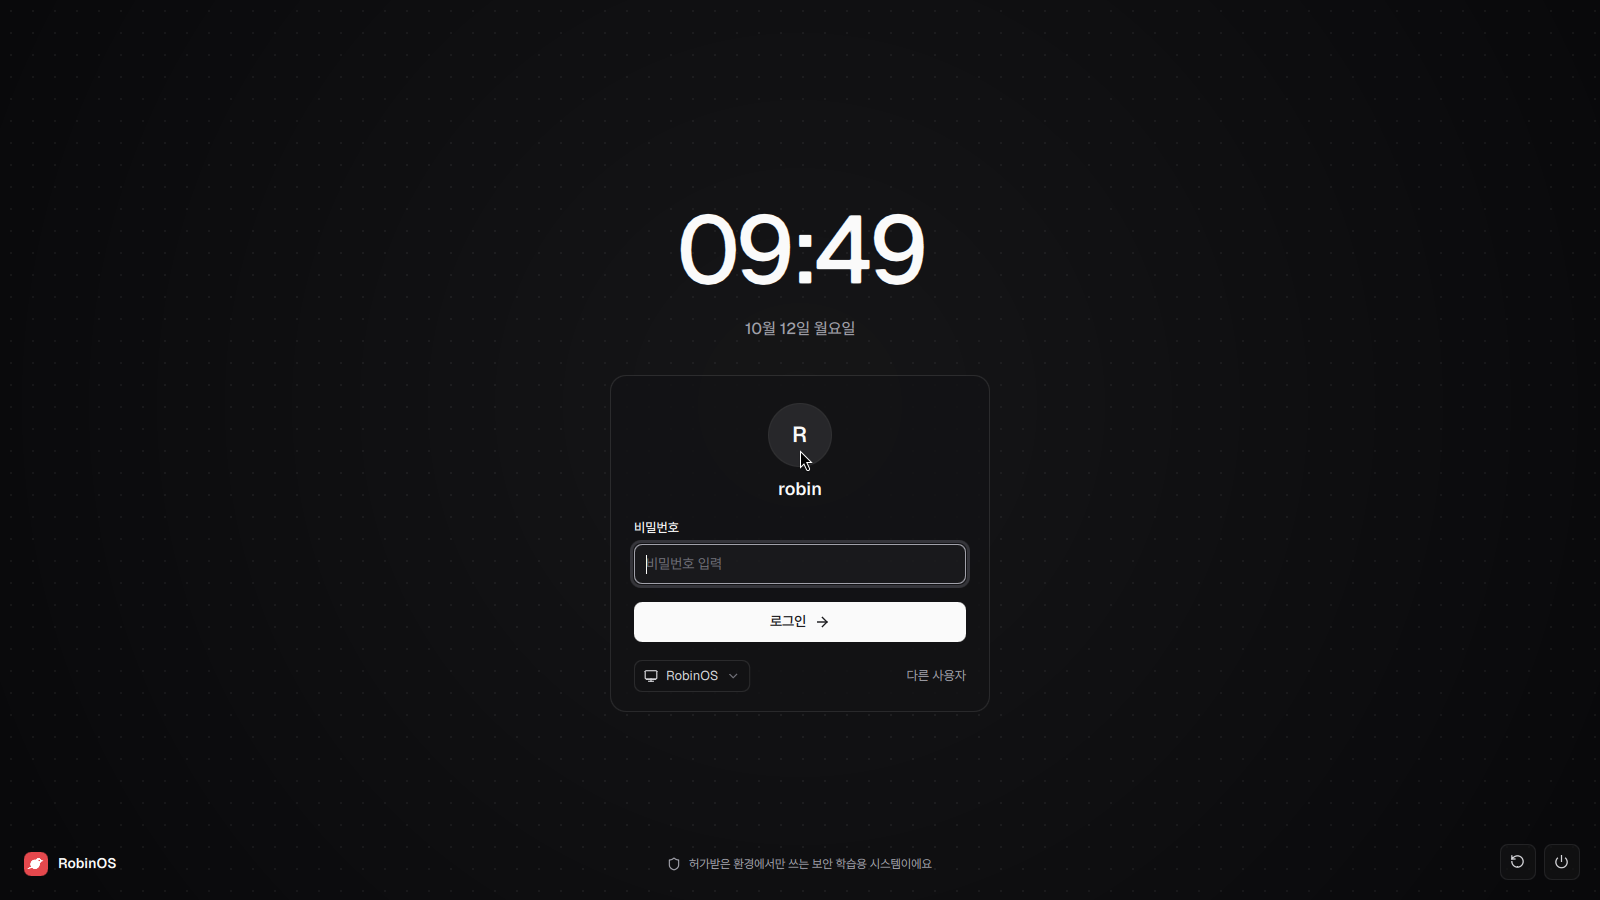
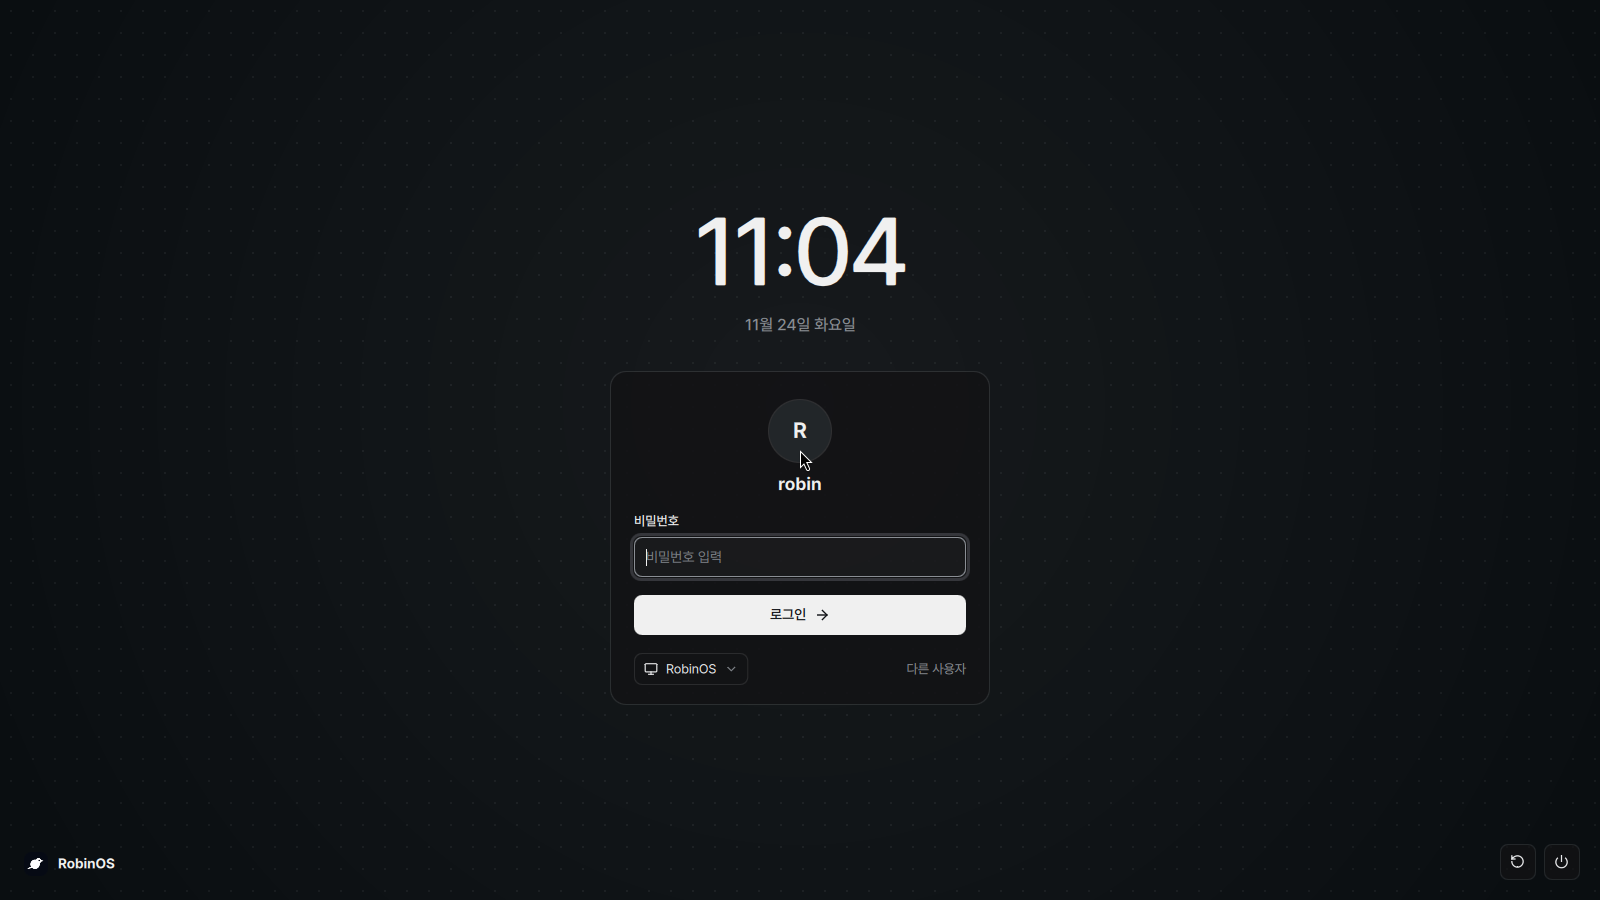
소개 영상: 부팅 메뉴·로그인·스냅샷 목록도 새 화면으로(T-180 ①)
- 2026-11-24 archinstall 설치 테스트가 찍은 화면. 새 부팅 메뉴에는 보안 문구가
  없어서 덮개를 뺐고, 로그인 화면은 새 비밀번호 칸 위치에 점을 쳐요
- 다크 런처는 보안 랩 줄 전에서 잘라요. 메모장 결과가 나오면 빈 런처를 숨겨
  아래 줄이 비치지 않게

diff --git a/promo/intro/index.html b/promo/intro/index.html
@@ -34,11 +34,10 @@
       <div class="display-inner">
         <div class="shot" id="sc-grub">
           <div class="crop" data-src="grub.png" data-crop="0,0,1600,900" data-fit="display"></div>
-          <i class="patch" data-patch="grub.png" data-rect="180,118,260,32"></i>
-          <i class="patch" data-patch="grub.png" data-rect="520,768,560,32"></i>
         </div>
         <div class="shot" id="sc-login">
-          <div class="crop" data-src="login.png" data-crop="53,0,1493,840" data-fit="display"></div>
+          <div class="crop" data-src="login.png" data-crop="0,0,1600,900" data-fit="display"></div>
+          <i class="patch" data-patch="login.png" data-rect="790,444,22,28"></i>
           <div class="pw" id="pw"></div>
         </div>
         <div class="shot" id="sc-desk"><div class="crop" data-src="desktop-real.png" data-crop="0,0,1600,900" data-fit="display"></div></div>
@@ -58,8 +57,8 @@
     </div>
     <div class="deck" id="deck">
       <div class="card" id="c-launcher">
-        <div class="crop" data-src="launcher-dark.png" data-crop="460,153,680,338" data-scale="1.336" data-fade></div>
-        <div class="crop over" id="c-launcher-result" data-src="launcher-notepad.png" data-crop="460,153,680,338" data-scale="1.336" data-fade></div>
+        <div class="crop" data-src="launcher-dark.png" data-crop="460,153,680,190" data-scale="1.336" data-fade></div>
+        <div class="crop over" id="c-launcher-result" data-src="launcher-notepad.png" data-crop="460,153,680,190" data-scale="1.336" data-fade></div>
         <div class="search-type" id="search-type"><span data-type="search"></span><i class="caret thin"></i></div>
       </div>
       <div class="card" id="c-alttab"><div class="crop" data-src="alt-tab.png" data-crop="566,348,468,204" data-scale="1.95"></div></div>
@@ -86,10 +85,10 @@
 
   <!-- 48–52: the breakdown: dark, then light spreads from the middle -->
   <section class="scene" id="s-theme">
-    <div class="theme-card"><div class="crop" data-src="launcher-dark.png" data-crop="460,153,680,338" data-scale="1.176" data-fade></div></div>
+    <div class="theme-card"><div class="crop" data-src="launcher-dark.png" data-crop="460,153,680,190" data-scale="1.176" data-fade></div></div>
   </section>
   <section class="scene light" id="s-theme-light">
-    <div class="theme-card"><div class="crop" data-src="launcher-light.png" data-crop="460,153,680,338" data-scale="1.176" data-fade></div></div>
+    <div class="theme-card"><div class="crop" data-src="launcher-light.png" data-crop="460,153,680,190" data-scale="1.176" data-fade></div></div>
     <p class="theme-caption" id="day-word" data-words>라이트 모드도 있어요.</p>
   </section>
 
@@ -105,7 +104,7 @@
       <svg class="rewind" id="rewind" viewBox="0 0 400 120"><path d="M370 90 C 300 10, 120 10, 40 86"/><path d="M40 86 l 6 -26 M40 86 l 26 -6"/></svg>
     </div>
     <div class="bootcard" id="bootcard">
-      <div class="crop" data-src="grub-pick.png" data-crop="180,272,760,200" data-scale="1.55"></div>
+      <div class="crop" data-src="grub-pick.png" data-crop="190,276,730,192" data-scale="1.614"></div>
     </div>
     <p class="caption dark-text" id="rb-caption" data-words>부팅 메뉴에서 바로 고를 수 있어요.</p>
   </section>

diff --git a/promo/intro/main.js b/promo/intro/main.js
@@ -117,18 +117,18 @@ async function sample(src, x, y) {
   return `rgb(${r}, ${g}, ${bl})`;
 }
 async function setupPatches() {
-  // Boot menu lines about security are covered (design.md T-151: the product text will change)
+  // The mouse pointer left on the login screen's avatar is covered with the avatar's face
   const s = 1200 / 1600;
   for (const p of qa(".patch")) {
     const [x, y, w, h] = p.dataset.rect.split(",").map(Number);
     Object.assign(p.style, { left: `${x * s}px`, top: `${y * s}px`, width: `${w * s}px`, height: `${h * s}px`, background: await sample(p.dataset.patch, x + 2, y + 2) });
   }
-  // login.png password field (634..966, 544..584): dots are typed into a patch of the field's color
-  const ls = Math.min(1200 / 1493, 675 / 840), pw = q("#pw");
+  // login.png password field (634..966, 537..577): dots are typed into a patch of the field's color
+  const pw = q("#pw");
   Object.assign(pw.style, {
-    left: `${(640 - 53) * ls + (1200 - 1493 * ls) / 2}px`, top: `${548 * ls + (675 - 840 * ls) / 2}px`,
-    width: `${320 * ls}px`, height: `${32 * ls}px`, paddingLeft: `${10 * ls}px`,
-    background: await sample("login.png", 900, 564), borderRadius: "5px",
+    left: `${644 * s}px`, top: `${541 * s}px`,
+    width: `${312 * s}px`, height: `${32 * s}px`, paddingLeft: `${4 * s}px`,
+    background: await sample("login.png", 900, 557), borderRadius: "5px",
   });
   // launcher-dark.png search field (508..1130, 170..198): covered while "notepad" is typed,
   // in the launcher's own 18px type
@@ -309,6 +309,9 @@ function build() {
     const found = b(TYPING[0].at) + TYPING[0].text.length * TYPE + 0.12;
     tl.set(result, { autoAlpha: 1 }, found);
     tl.set(typing, { autoAlpha: 0 }, found);
+    // Both crops fade at the bottom: the empty launcher's rows would show through the result's
+    const empty = q(".crop:not(.over)", q("#c-launcher"));
+    tl.set(empty, { autoAlpha: 0 }, found);
     // Slow drift of the whole deck, then everything leaves toward the camera
     tl.fromTo(q("#deck"), { rotationY: 0 }, { rotationY: -4, duration: b(10), ease: "none", immediateRender: false }, b(25));
     conceal(h2, b(34.9));

diff --git a/promo/intro/style.css b/promo/intro/style.css
@@ -148,7 +148,7 @@ h2.top { position: absolute; left: 0; right: 0; top: 110px; text-align: center; 
 .count-sub { margin-top: 26px; font: 500 38px/1.35 var(--sans); letter-spacing: -0.025em; color: var(--muted); }
 
 /* ── theme ── */
-.theme-card { position: absolute; left: 560px; top: 210px; width: 800px; height: 400px; border-radius: 22px; overflow: hidden; box-shadow: 0 0 0 1px rgba(255, 255, 255, 0.12), 0 60px 140px -40px rgba(0, 0, 0, 0.9); }
+.theme-card { position: absolute; left: 560px; top: 298px; width: 800px; height: 224px; border-radius: 22px; overflow: hidden; box-shadow: 0 0 0 1px rgba(255, 255, 255, 0.12), 0 60px 140px -40px rgba(0, 0, 0, 0.9); }
 .light .theme-card { box-shadow: 0 0 0 1px rgba(0, 0, 0, 0.08), 0 60px 140px -50px rgba(0, 0, 0, 0.30); }
 .theme-caption { position: absolute; left: 0; right: 0; top: 700px; text-align: center; font: 720 92px/1.12 var(--sans); letter-spacing: -0.05em; }
 .glow-beat { position: absolute; inset: 0; transform-origin: 50% 50%; }

diff --git a/promo/intro/README.md b/promo/intro/README.md
@@ -69,13 +69,13 @@ node beats.mjs out/mono.wav 0 42    # 템포, 박 위치, 마디마다의 세기
 | `beats.mjs` | WAV의 템포, 박 위치, 마디마다의 세기 재기 |
 | `render.mjs` | 헤드리스 크롬 → 프레임마다 `__video.seek(t)` → 찍기 → ffmpeg |
 | `server.mjs`, `preview.mjs`, `fonts.mjs` | 127.0.0.1 로컬 서버, 미리보기, 글꼴 받기 |
-| `assets/` | 실제 화면. 부팅 테스트(`build/boot-test`, 2026-11-24 robin-ui V5 화면: 런처 13·15·78번, 창 전환 69, 이모지 54, 클립보드 53, 달력 28, 소리 60, 빠른 설정 24, 학습 센터 80, 바탕 화면 10)와 설치 테스트(부팅 메뉴, 로그인, 스냅샷 목록)가 찍은 1600×900 스크린샷이에요. `index.html`의 `data-crop`(x, y, 너비, 높이)으로 필요한 부분만 잘라 써요 |
+| `assets/` | 실제 화면. 부팅 테스트(`build/boot-test`, 2026-11-24 robin-ui V5 화면: 런처 13·15·78번, 창 전환 69, 이모지 54, 클립보드 53, 달력 28, 소리 60, 빠른 설정 24, 학습 센터 80, 바탕 화면 10)와 설치 테스트(2026-11-24 archinstall: 부팅 메뉴 `snapshots-01`, 로그인 `rollback-02`, 스냅샷 목록 `snapshot-boot-01`)가 찍은 1600×900 스크린샷이에요. `index.html`의 `data-crop`(x, y, 너비, 높이)으로 필요한 부분만 잘라 써요 |
 
 ## 지킨 것
 
 - **문구는 RobinOS의 정체성을 따라요.** 2026-11-24부터 "예쁜 UI를 가진 OS"([design.md](../../docs/design.md) "정체성 다시 정하기")예요. 그 전에는 목적 "처음 쓰는 리눅스"(2026-10-12)였어요. 처음 판의 "매일 쓰는, 나만의 OS."는 무엇을 하는 OS인지 말하지 않아서 바꿨고(Robin: "뭐 어쩌라는 건지 모르겠어"), 그다음 판의 "쓰다 보면 리눅스를 알게 되는 OS"와 "리눅스, 처음이어도 괜찮아요."는 광고 문구 같아서 줄였어요(Robin: "살짝 cringe야"). "밤에는 다크, 낮에는 라이트." 같은 대구와 쉼표로 가른 꾸민 제목도 덜어 냈어요(Robin: "AI 같은 말 다 정리해").
 - **실제로 있는 기능과 명령만** 넣어요. 화면은 모두 테스트가 찍은 실제 스크린샷이고, 터미널 문구는 `robinos-hints.sh`의 실제 출력이에요. 스냅샷 줄의 세 점(설치, 업데이트 전, 업데이트 후)도 부팅 메뉴의 실제 목록(single, pre, post)과 같아요.
-- **보안은 앞세우지 않아요**(2026-10-12 Robin: "보안은 강조하지마"). 부팅 메뉴의 "Security Learning Workstation"과 안내 줄은 그 자리의 배경색으로 덮고, 런처는 보안 랩 항목 전에서 잘라요. 제품 문구를 고치면(T-151) 스크린샷을 새로 찍어 바꿔요.
+- **보안은 앞세우지 않아요**(2026-10-12 Robin: "보안은 강조하지마"). 2026-11-24 화면의 부팅 메뉴에는 보안 문구가 없어서 덮지 않아요. 런처는 보안 랩 줄 전에서 잘라요(그래서 런처 칸이 짧아요).
 
 ## 함정
 
@@ -83,7 +83,7 @@ node beats.mjs out/mono.wav 0 42    # 템포, 박 위치, 마디마다의 세기
 - **장면 안의 요소는 `visibility`가 아니라 `autoAlpha`로 켜고 꺼요.** 자식에 `visibility: visible`을 주면 부모 장면을 숨겨도 그 자식은 보여요.
 - **선을 그리는 SVG는 그리기 전까지 숨겨요.** `stroke-dasharray`로 길이 0인 선을 남겨도 둥근 끝(`round` cap)은 점으로 찍혀요.
 - **`file://`로 열면 안 돼요.** 크롬이 ES 모듈과 글꼴을 막아요. 그래서 로컬 서버를 띄워요.
-- 로그인 화면의 비밀번호 칸과 런처 검색 칸의 안내 글자는, 스크린샷에서 그 칸의 색을 읽어(`sample`) 같은 색으로 덮고 그 위에 쳐요.
+- 로그인 화면의 비밀번호 칸과 런처 검색 칸의 안내 글자는, 스크린샷에서 그 칸의 색을 읽어(`sample`) 같은 색으로 덮고 그 위에 쳐요. 로그인 화면 아바타 위에 남은 마우스 포인터도 같은 방법으로 덮어요.
 - **Node 24의 `fs.rmSync`는 한글이 든 절대 경로에서 프로그램째 죽어요**(윈도우, 0xC0000409, 오류 메시지 없음, 2026-10-12 Node 24.13). 이 저장소는 `바탕화면` 아래라서 파일은 `fs.unlinkSync`로 지워요. 영문인 임시 폴더(`os.tmpdir()`)에서는 `rmSync`도 괜찮아요.
 - 크롬을 닫을 때는 DevTools 연결(WebSocket)을 먼저 닫고 끝난 뒤에 크롬을 꺼요.
 - 결과물(`out/`), 글꼴(`fonts/`)은 git에 올리지 않아요.
